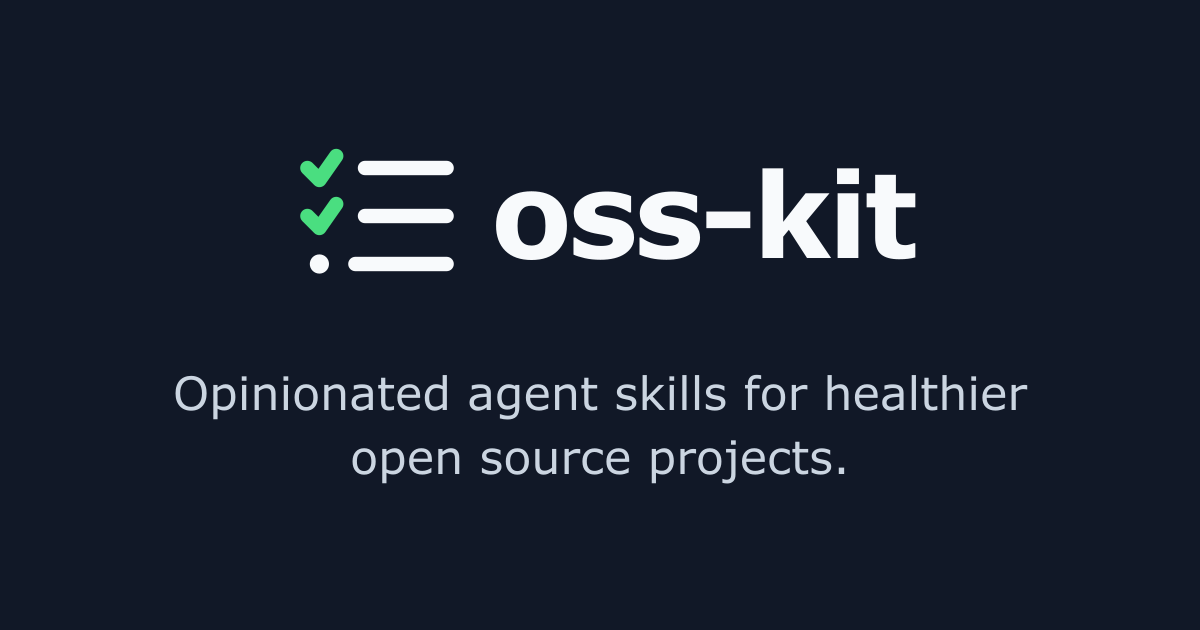
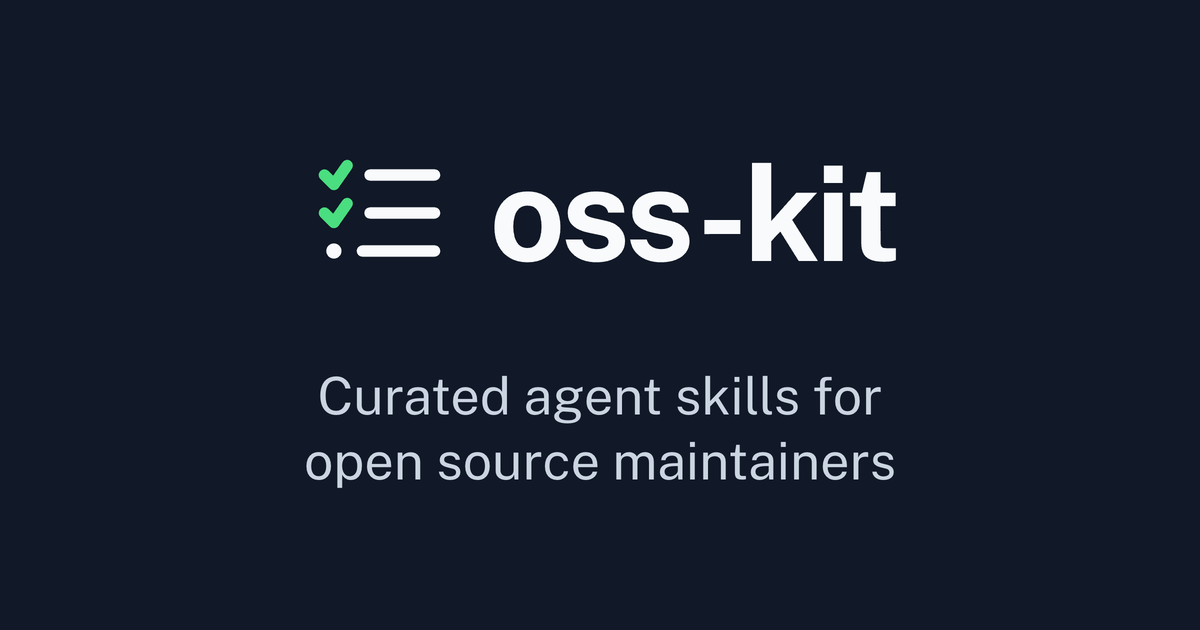
fix(brand): unify the project tagline across every surface
oss-kit described itself five ways. The site said "Curated agent skills for
open source maintainers", the manifests said "An opinionated quality bar for
open source projects", README and AGENTS.md each paraphrased, and og.png had a
fifth wording baked into the pixels. The pitch a reader got depended on whether
they arrived through a plugin browser, a share preview, or the site.

The manifest descriptions carry the tagline alone. The capability list they used
to append is already in the keywords and tags arrays beside them, so the listing
loses nothing. The tagline keeps its period where it renders as a sentence and
drops it in JSON fields and on the card, where a lone dot under a centered line
reads as a blemish.

og.png had no source, so its wording was only editable by replacing a binary.
site/scripts/og.html is that source now. It must be served over http to shoot:
Chrome treats a file:// page as an opaque origin, refuses the @font-face
request, and silently falls back to another font at the same size, which is easy
to miss. The capture is DPR 2 downscaled to the original 1200x630 with sharp,
already a site dependency.

Verified: bun test 111 pass, scripts/check-drift.sh clean, the bundled validator
reports 0 errors, all five manifests parse, the site builds 78 pages, and
dist/og.png is byte-identical to the new card.

Changed region(s): [[0.1233, 0.573, 0.8633, 0.7841], [0.2467, 0.2413, 0.7708, 0.4524]]

diff --git a/site/scripts/og.html b/site/scripts/og.html
@@ -1,0 +1,105 @@
+<!doctype html>
+<html lang="en">
+  <head>
+    <meta charset="utf-8" />
+    <title>oss-kit social card</title>
+    <!--
+      Source for site/public/og.png, the 1200x630 Open Graph card. Serve site/
+      over a local http server and screenshot this page at 1200x630; see the
+      social card note in AGENTS.md. Editing the tagline here and re-shooting is
+      the whole procedure.
+
+      The palette matches site/public/favicon.svg in its dark form, not the
+      --kit-* tokens: the icon set and this card ship the same colors.
+    -->
+    <style>
+      @font-face {
+        font-family: "Public Sans";
+        font-weight: 400;
+        font-display: block;
+        src: url("../node_modules/@fontsource/public-sans/files/public-sans-latin-400-normal.woff2") format("woff2");
+      }
+
+      @font-face {
+        font-family: "Public Sans";
+        font-weight: 700;
+        font-display: block;
+        src: url("../node_modules/@fontsource/public-sans/files/public-sans-latin-700-normal.woff2") format("woff2");
+      }
+
+      * {
+        margin: 0;
+        padding: 0;
+      }
+
+      html,
+      body {
+        width: 1200px;
+        height: 630px;
+        overflow: hidden;
+      }
+
+      body {
+        display: flex;
+        flex-direction: column;
+        gap: 74px;
+        align-items: center;
+        justify-content: center;
+        background: #111827;
+        font-family: "Public Sans", system-ui, sans-serif;
+        -webkit-font-smoothing: antialiased;
+      }
+
+      .lockup {
+        display: flex;
+        gap: 34px;
+        align-items: center;
+      }
+
+      .lockup svg {
+        width: 152px;
+        height: 152px;
+      }
+
+      .wordmark {
+        color: #f8fafc;
+        font-weight: 700;
+        font-size: 132px;
+        letter-spacing: -0.035em;
+        line-height: 1;
+      }
+
+      .tagline {
+        max-width: 900px;
+        color: #cbd5e1;
+        font-weight: 400;
+        font-size: 52px;
+        line-height: 1.25;
+        text-align: center;
+        text-wrap: balance;
+      }
+    </style>
+  </head>
+  <body>
+    <div class="lockup">
+      <!-- Geometry copied from site/public/favicon.svg. The fills are explicit
+           because that file paints its dark colors through a
+           prefers-color-scheme block, and a headless browser renders light by
+           default, which would hide the bars against this background. -->
+      <svg xmlns="http://www.w3.org/2000/svg" viewBox="0 0 640 640" role="img" aria-label="oss-kit">
+        <path
+          fill="#4ade80"
+          d="M203.7 133.8c7.6-10.9 5-25.8-5.9-33.4s-25.8-5-33.4 5.9l-39.7 56.5L105 143c-9.4-9.3-24.6-9.3-34 0s-9.3 24.6 0 34l40 40c5 5 12 7.6 19.1 6.9s13.5-4.3 17.6-10.1zm0 160c7.6-10.9 5-25.8-5.9-33.4s-25.8-5-33.4 5.9l-39.7 56.5L105 303c-9.4-9.4-24.6-9.4-33.9 0s-9.4 24.6-.1 34l40 40c5 5 12 7.6 19.1 6.9s13.5-4.3 17.6-10.1z"
+        />
+        <path
+          fill="#f8fafc"
+          d="M256 160c0 13.3 10.7 24 24 24h272c13.3 0 24-10.7 24-24s-10.7-24-24-24H280c-13.3 0-24 10.7-24 24m0 160c0 13.3 10.7 24 24 24h272c13.3 0 24-10.7 24-24s-10.7-24-24-24H280c-13.3 0-24 10.7-24 24m-32 160c0 13.3 10.7 24 24 24h304c13.3 0 24-10.7 24-24s-10.7-24-24-24H248c-13.3 0-24 10.7-24 24m-64 0c0-17.7-14.3-32-32-32s-32 14.3-32 32 14.3 32 32 32 32-14.3 32-32"
+        />
+      </svg>
+      <span class="wordmark">oss-kit</span>
+    </div>
+    <!-- No terminal period: on the card it reads as a stray dot rather than
+         punctuation. The prose occurrences of the tagline keep theirs. -->
+    <p class="tagline">Curated agent skills for open source maintainers</p>
+  </body>
+</html>

diff --git a/AGENTS.md b/AGENTS.md
@@ -1,6 +1,6 @@
 # Working in this repository
 
-oss-kit is a curated, opinionated kit for recurring open source maintenance. It currently ships nine agent skills built around one repository quality standard. Every current standard opinion lives in `STANDARD.md` as a numbered rule. Skills cite rule IDs; they do not restate the opinions.
+oss-kit is a curated set of agent skills for open source maintainers. It currently ships nine, built around one repository standard. Every current standard opinion lives in `STANDARD.md` as a numbered rule. Skills cite rule IDs; they do not restate the opinions.
 
 ## Layout
 
@@ -104,5 +104,7 @@ Dependabot has supported the `bun` ecosystem since February 2025, for the text `
 `site/astro.config.mjs` imports `parseRules` from `site/scripts/generate.mjs` and builds the rules sidebar from `STANDARD.md` at config load. That is what keeps the sidebar in the order the standard argues, grouped under its own `##` headings, with no rule list duplicated in the config. Adding a rule needs no site change; renaming a `##` section in `STANDARD.md` renames a sidebar group. Autogeneration cannot do this, because it sorts by filename and would interleave the areas.
 
 Generated pages carry an `editUrl` pointing at the source they came from, because the generated Markdown under `site/src/content/docs/` is gitignored and has no file to edit. The global `editLink.baseUrl` covers authored pages in that tree.
+
+`site/public/og.png` is generated from `site/scripts/og.html`, which is the only place its wording lives. To change it, edit that file, serve `site/` over a local http server, screenshot the page at a 1200x630 viewport, and downscale the retina capture to 1200x630 with `sharp`, which `site/` already depends on. Serve it rather than opening `file://`: Chrome treats a `file://` page as an opaque origin and refuses the `@font-face` request, which silently substitutes a fallback font. The card carries the tagline without a terminal period, unlike the prose occurrences, because a lone dot under a centered line reads as a blemish.
 
 `lastUpdated` is deliberately off. It reads git commit dates for the content file, and the content files are generated and untracked; CI's shallow checkout would date them all to the same commit anyway.

diff --git a/CHANGELOG.md b/CHANGELOG.md
@@ -15,6 +15,7 @@ The format is based on [Keep a Changelog](https://keepachangelog.com/en/1.1.0/),
 
 ### Changed
 
+- Every plugin and marketplace manifest describes oss-kit as `Curated agent skills for open source maintainers`, the same line the site and the social card carry. The manifests called it an opinionated quality bar, so the pitch a reader saw depended on whether they arrived through a plugin browser, a share preview, or the site. The capability list those descriptions carried lives in the `keywords` and `tags` arrays of the same files.
 - A rule page is titled by the rule, not by its ID. The ID moves to a badge in the sidebar. The title drove the browser tab, the sidebar label, the pagination card, and the search result, so all four used to read `R-SEC-01` and say nothing.
 - The site sidebar groups rules by area in the order `STANDARD.md` argues them. It is built from `STANDARD.md` rather than from filenames, which sorted the areas alphabetically and split each one.
 - Guide and reference pages get a description drawn from their own first sentence. Guides used to repeat their title, and every reference page shared one generic line.

diff --git a/README.md b/README.md
@@ -1,11 +1,10 @@
 # oss-kit
 
-Curated agent skills for the recurring work of maintaining an open source
-repository.
+Curated agent skills for open source maintainers.
 
 The current kit has nine skills. One audits the repository against a written
-quality bar. The other eight own focused documentation, community, CI,
-security, release, changelog, prose, and agent-skill responsibilities.
+standard. The other eight own focused documentation, community, CI, security,
+release, changelog, prose, and agent-skill responsibilities.
 
 ## Install
 
